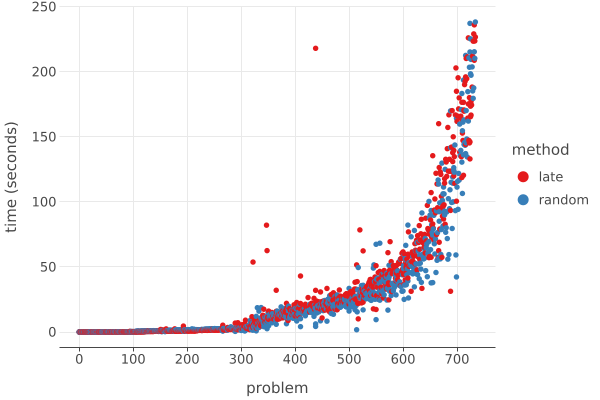
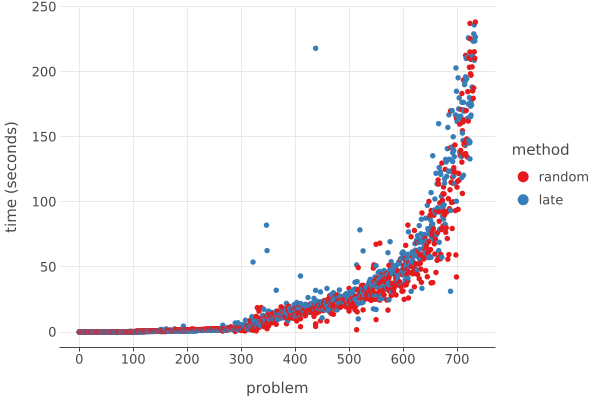
Consistent colors for minimization-method instant final

diff --git a/src/main/kotlin/experiments/reconfiguration/ReconfigurationQuery2.kt b/src/main/kotlin/experiments/reconfiguration/ReconfigurationQuery2.kt
@@ -394,7 +394,12 @@ fun main() {
 //			x("problem")
 //			y("time")
 //			y.axis.name = "time (seconds)"
-//			color("method")
+//			color("method") {
+//				scale = categorical(
+//					"random" to Color.rgb(228, 26, 28),
+//					"late" to Color.rgb(55, 126, 184),
+//				)
+//			}
 //			size = 2.5
 //		}
 //	}.save("v2/minimization-method instant final time.png")
@@ -403,7 +408,12 @@ fun main() {
 //		points {
 //			x("problem")
 //			y("#constraints")
-//			color("method")
+//			color("method") {
+//				scale = categorical(
+//					"random" to Color.rgb(228, 26, 28),
+//					"late" to Color.rgb(55, 126, 184),
+//				)
+//			}
 //			size = 2.5
 //		}
 //	}.save("v2/minimization-method instant final constraints.png")
